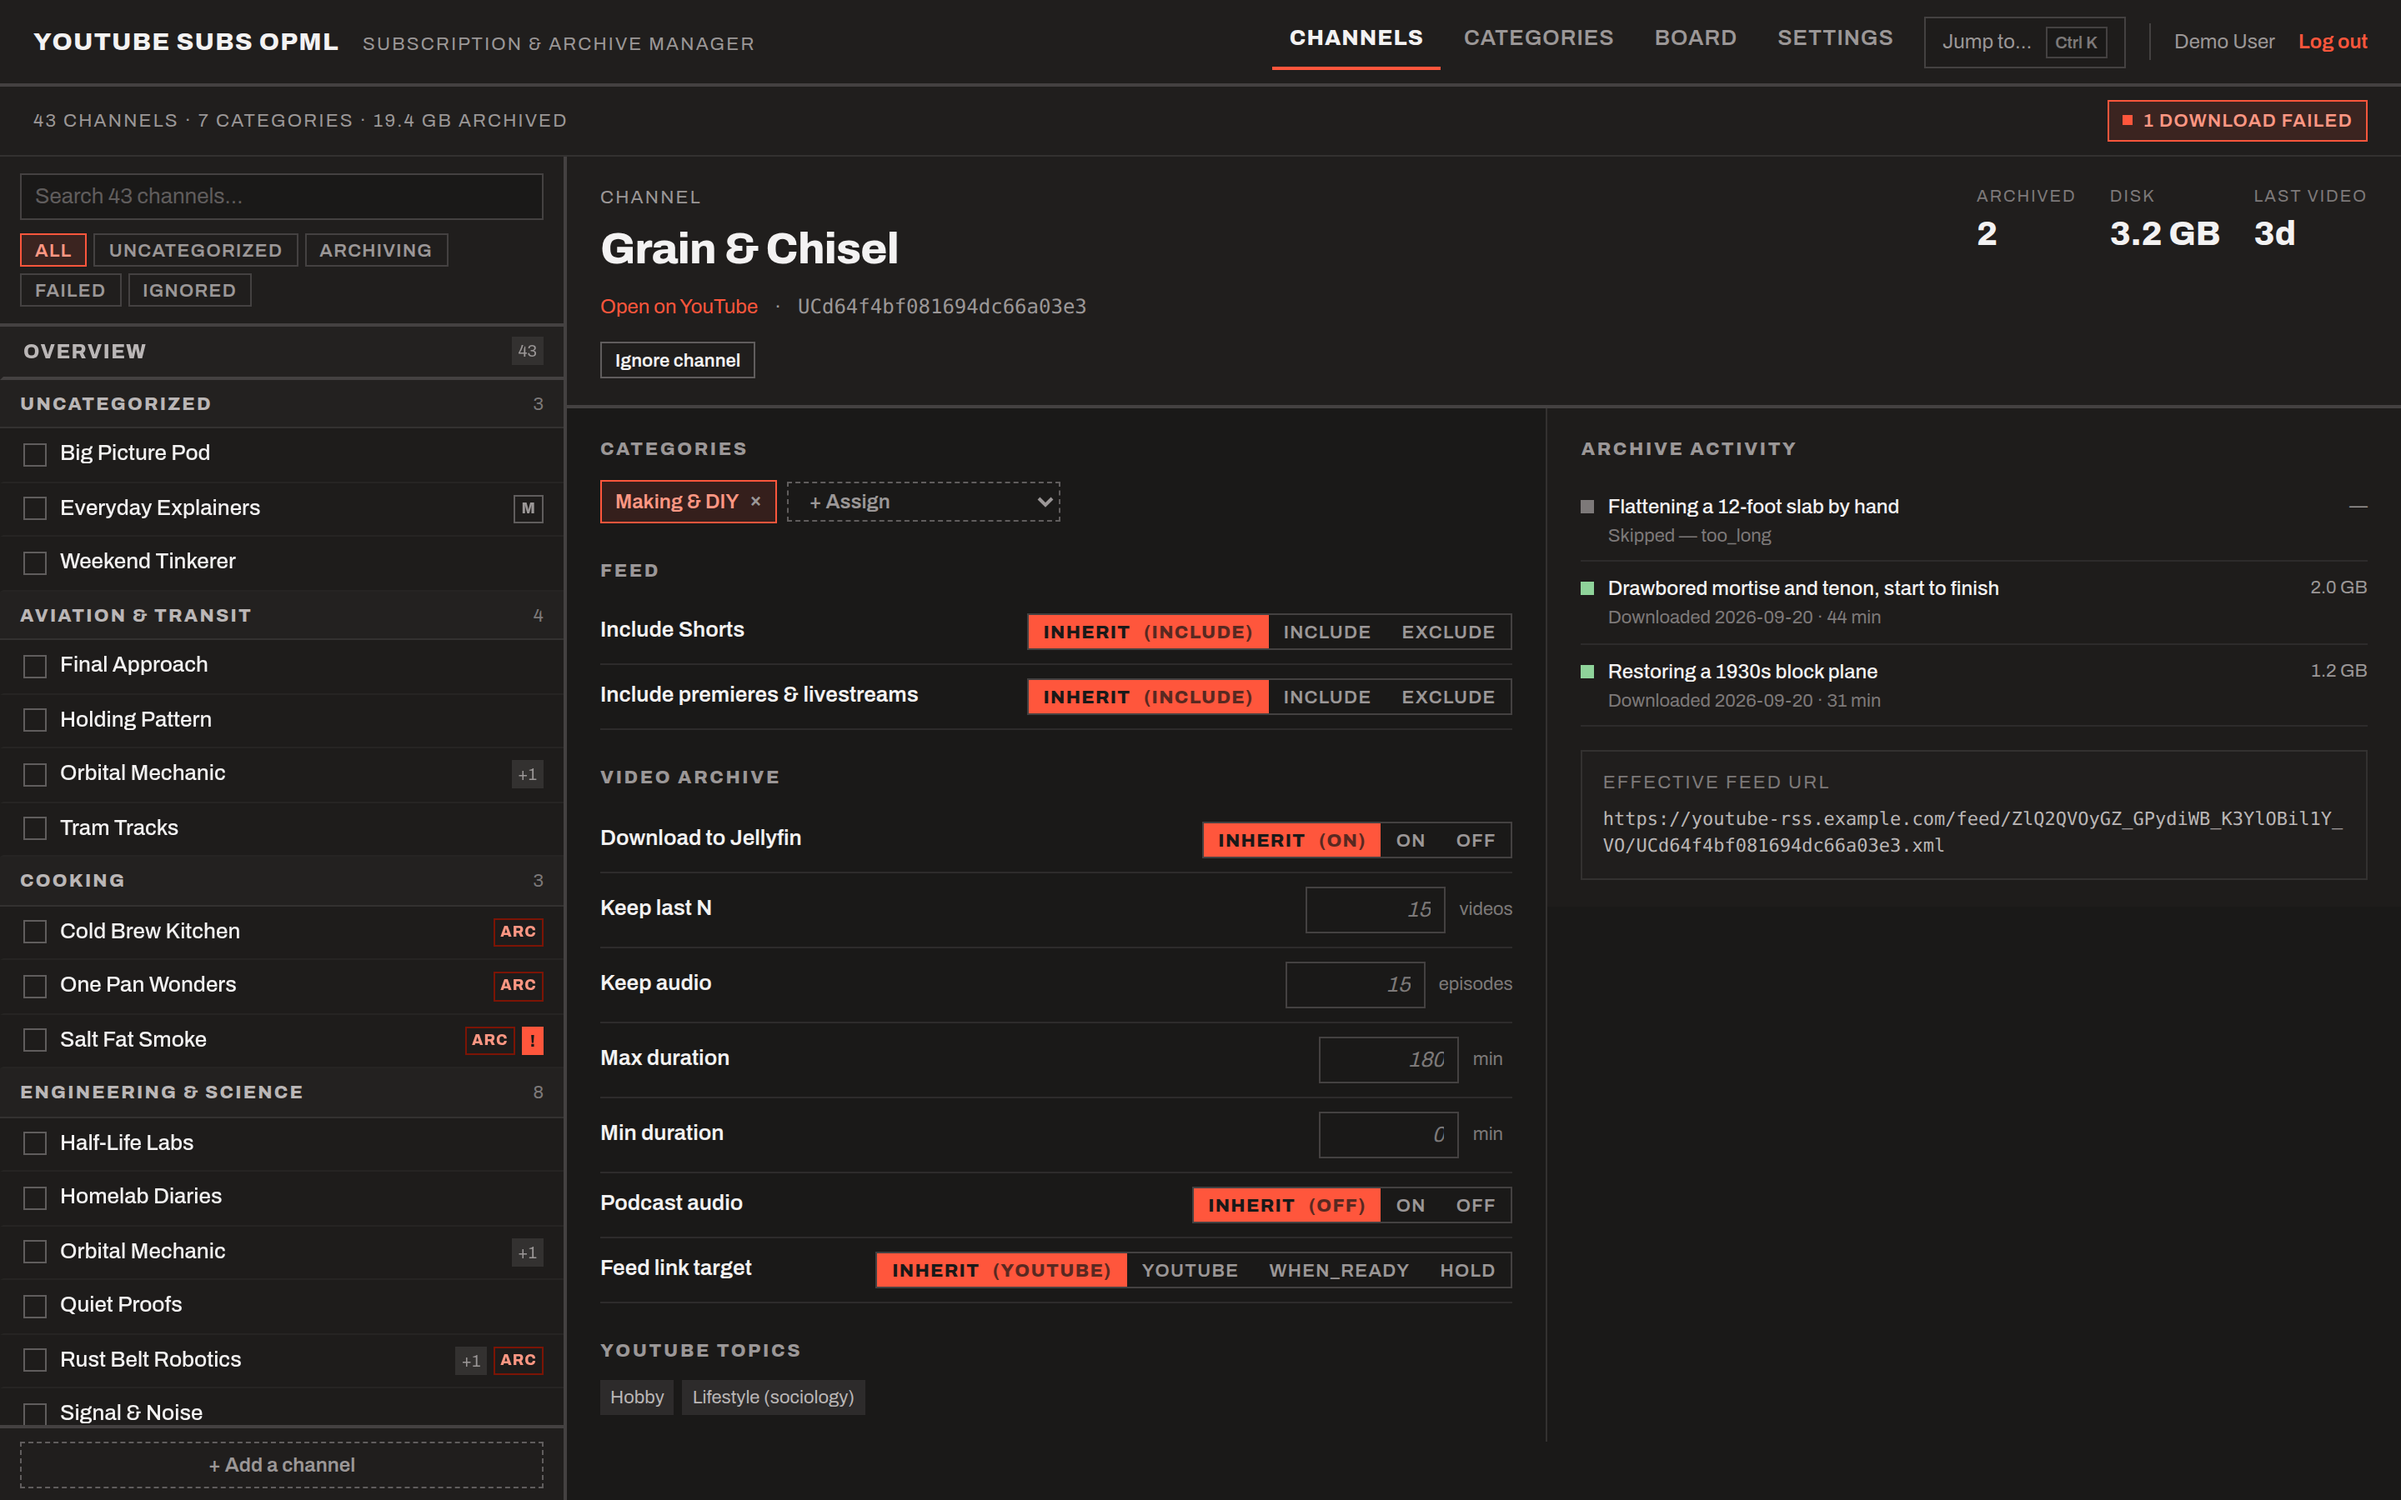
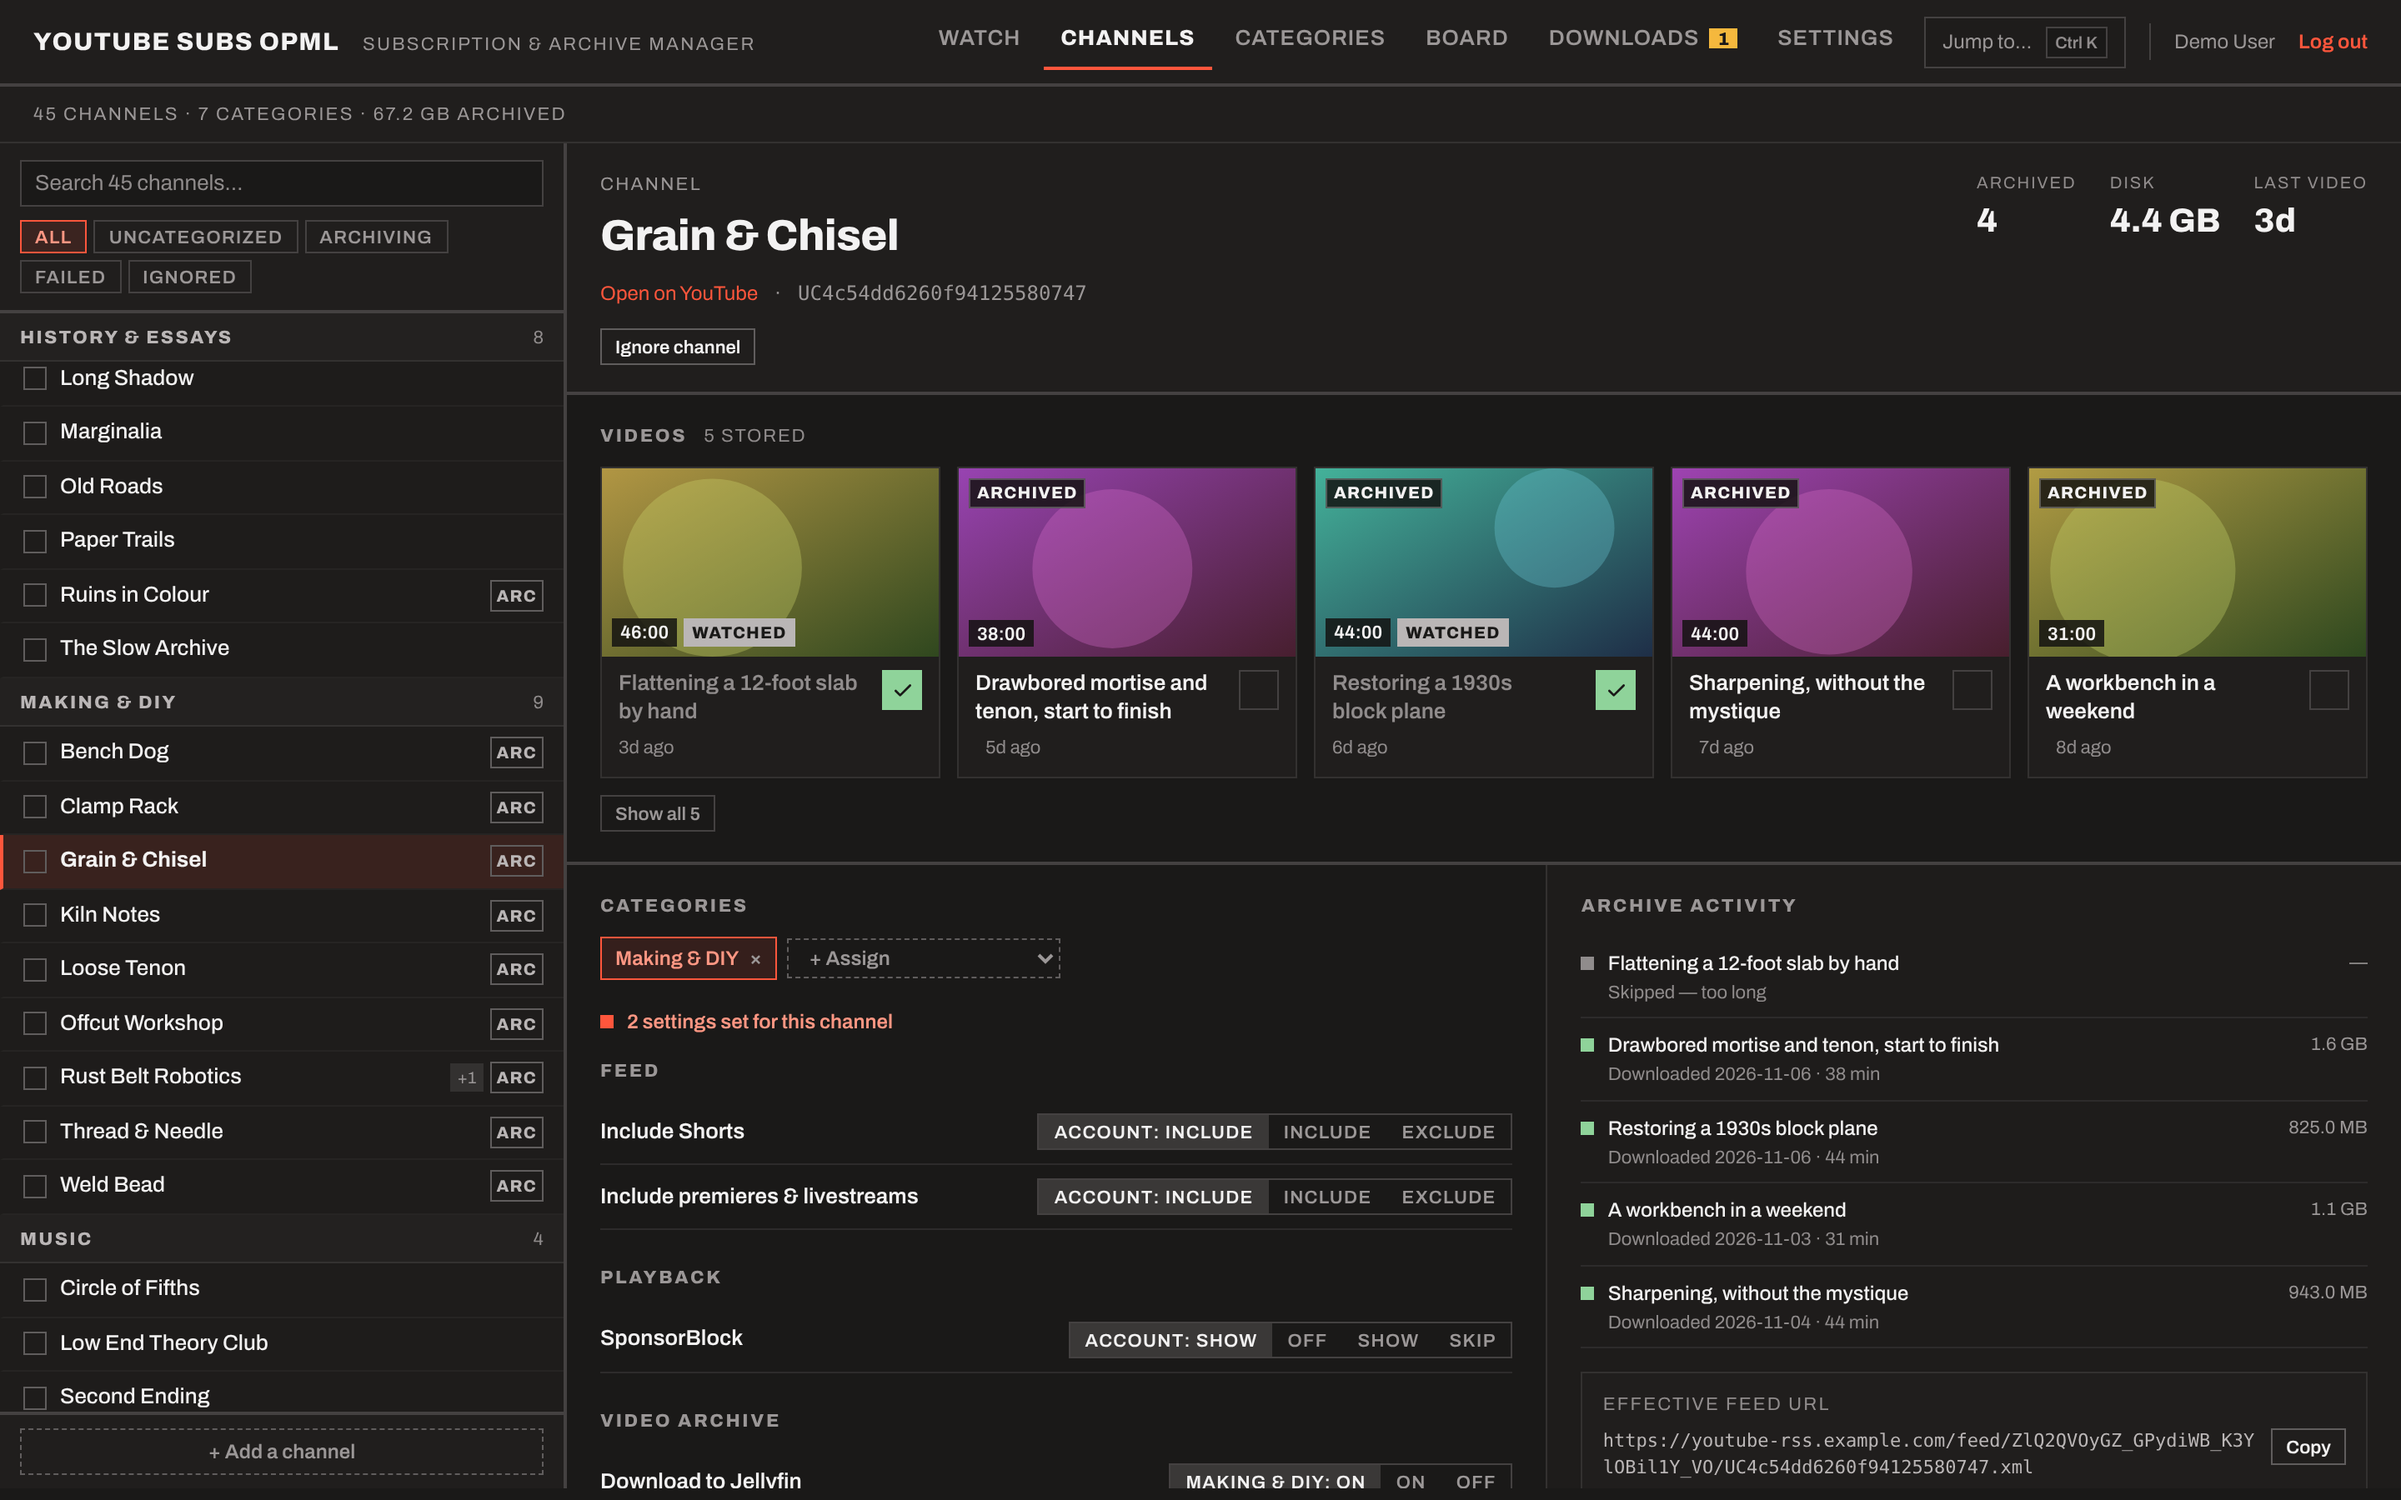
Refresh the README screenshots for the current UI
Retake the five existing screenshots with demo data and add one of the
Watch tab.

Claude-Session: https://claude.ai/code/session_01NoKzn2VAnxmWZQ9qdoo9nw

diff --git a/README.md b/README.md
@@ -31,8 +31,11 @@ A multi-user web app that syncs YouTube subscriptions via the YouTube Data API a
 
 **Getting around**
 
+- A Watch tab of recent uploads by category, with an in-page player, resume points and watched state
 - A library overview with archive activity and anything that needs attention
 - A Ctrl/Cmd-K quick switcher for jumping to any channel
+
+![Watch tab](./images/watch.png)
 
 ![Channel detail](./images/channel_detail.png)
 
